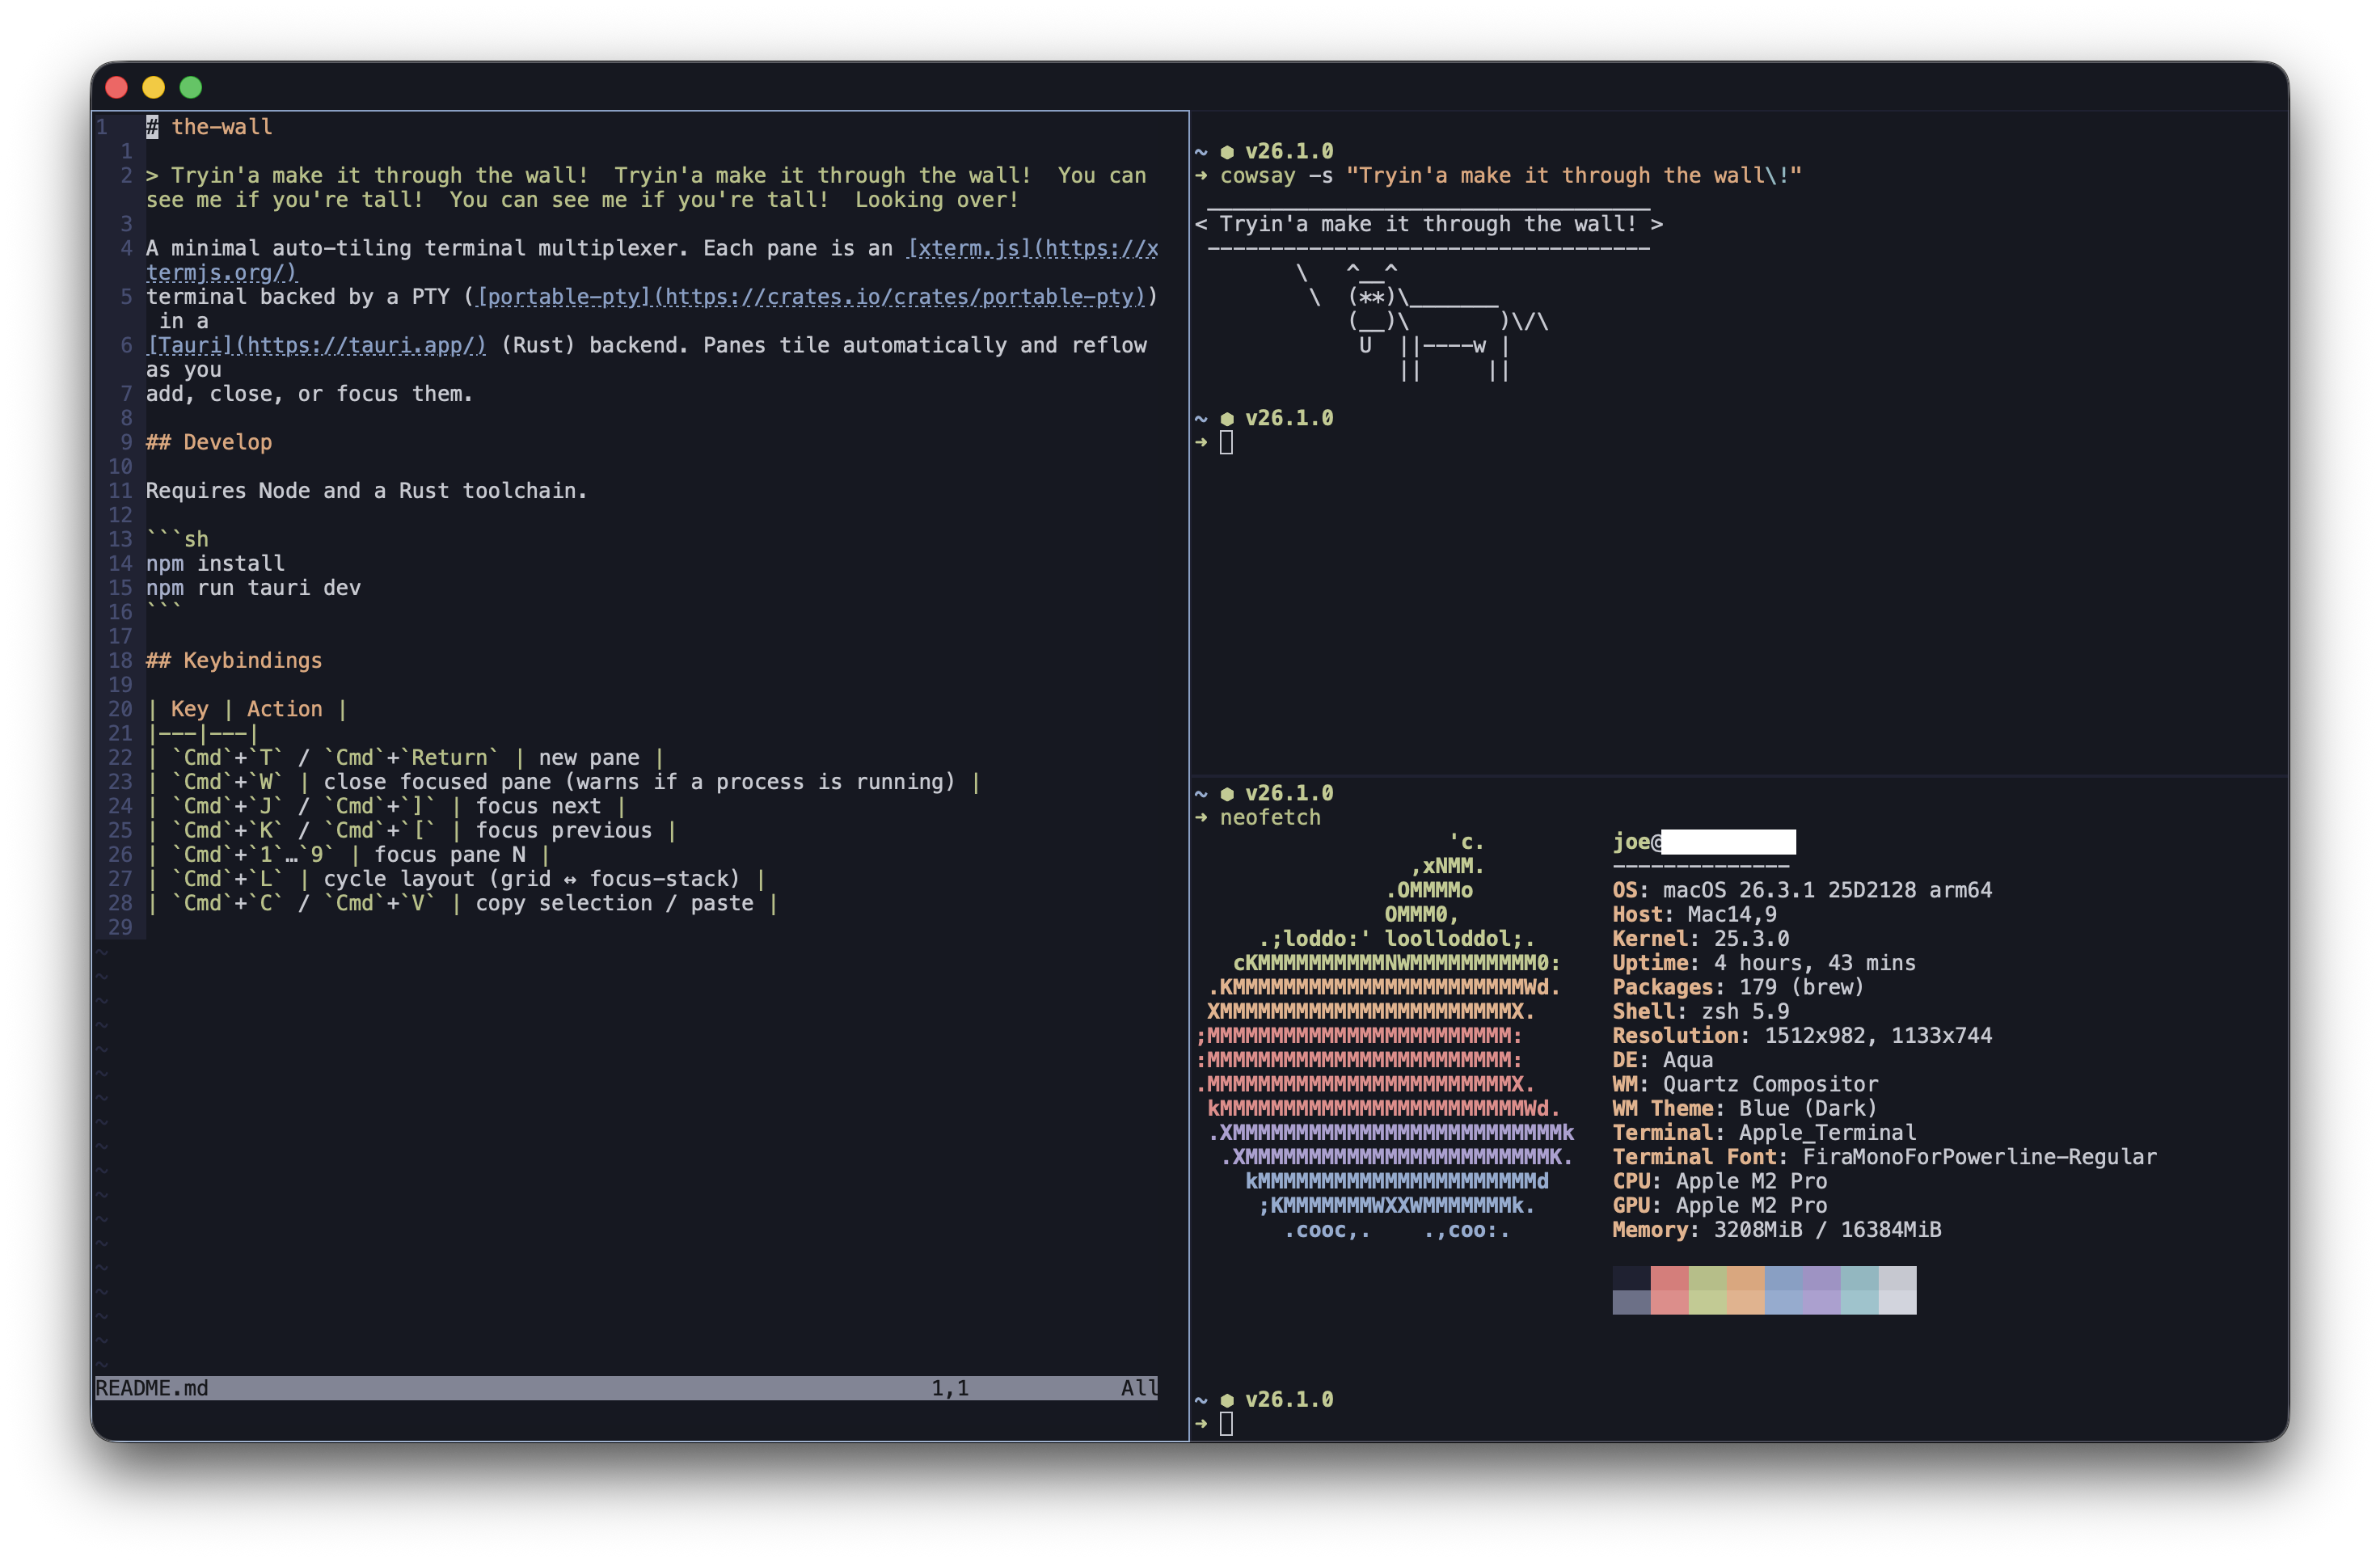
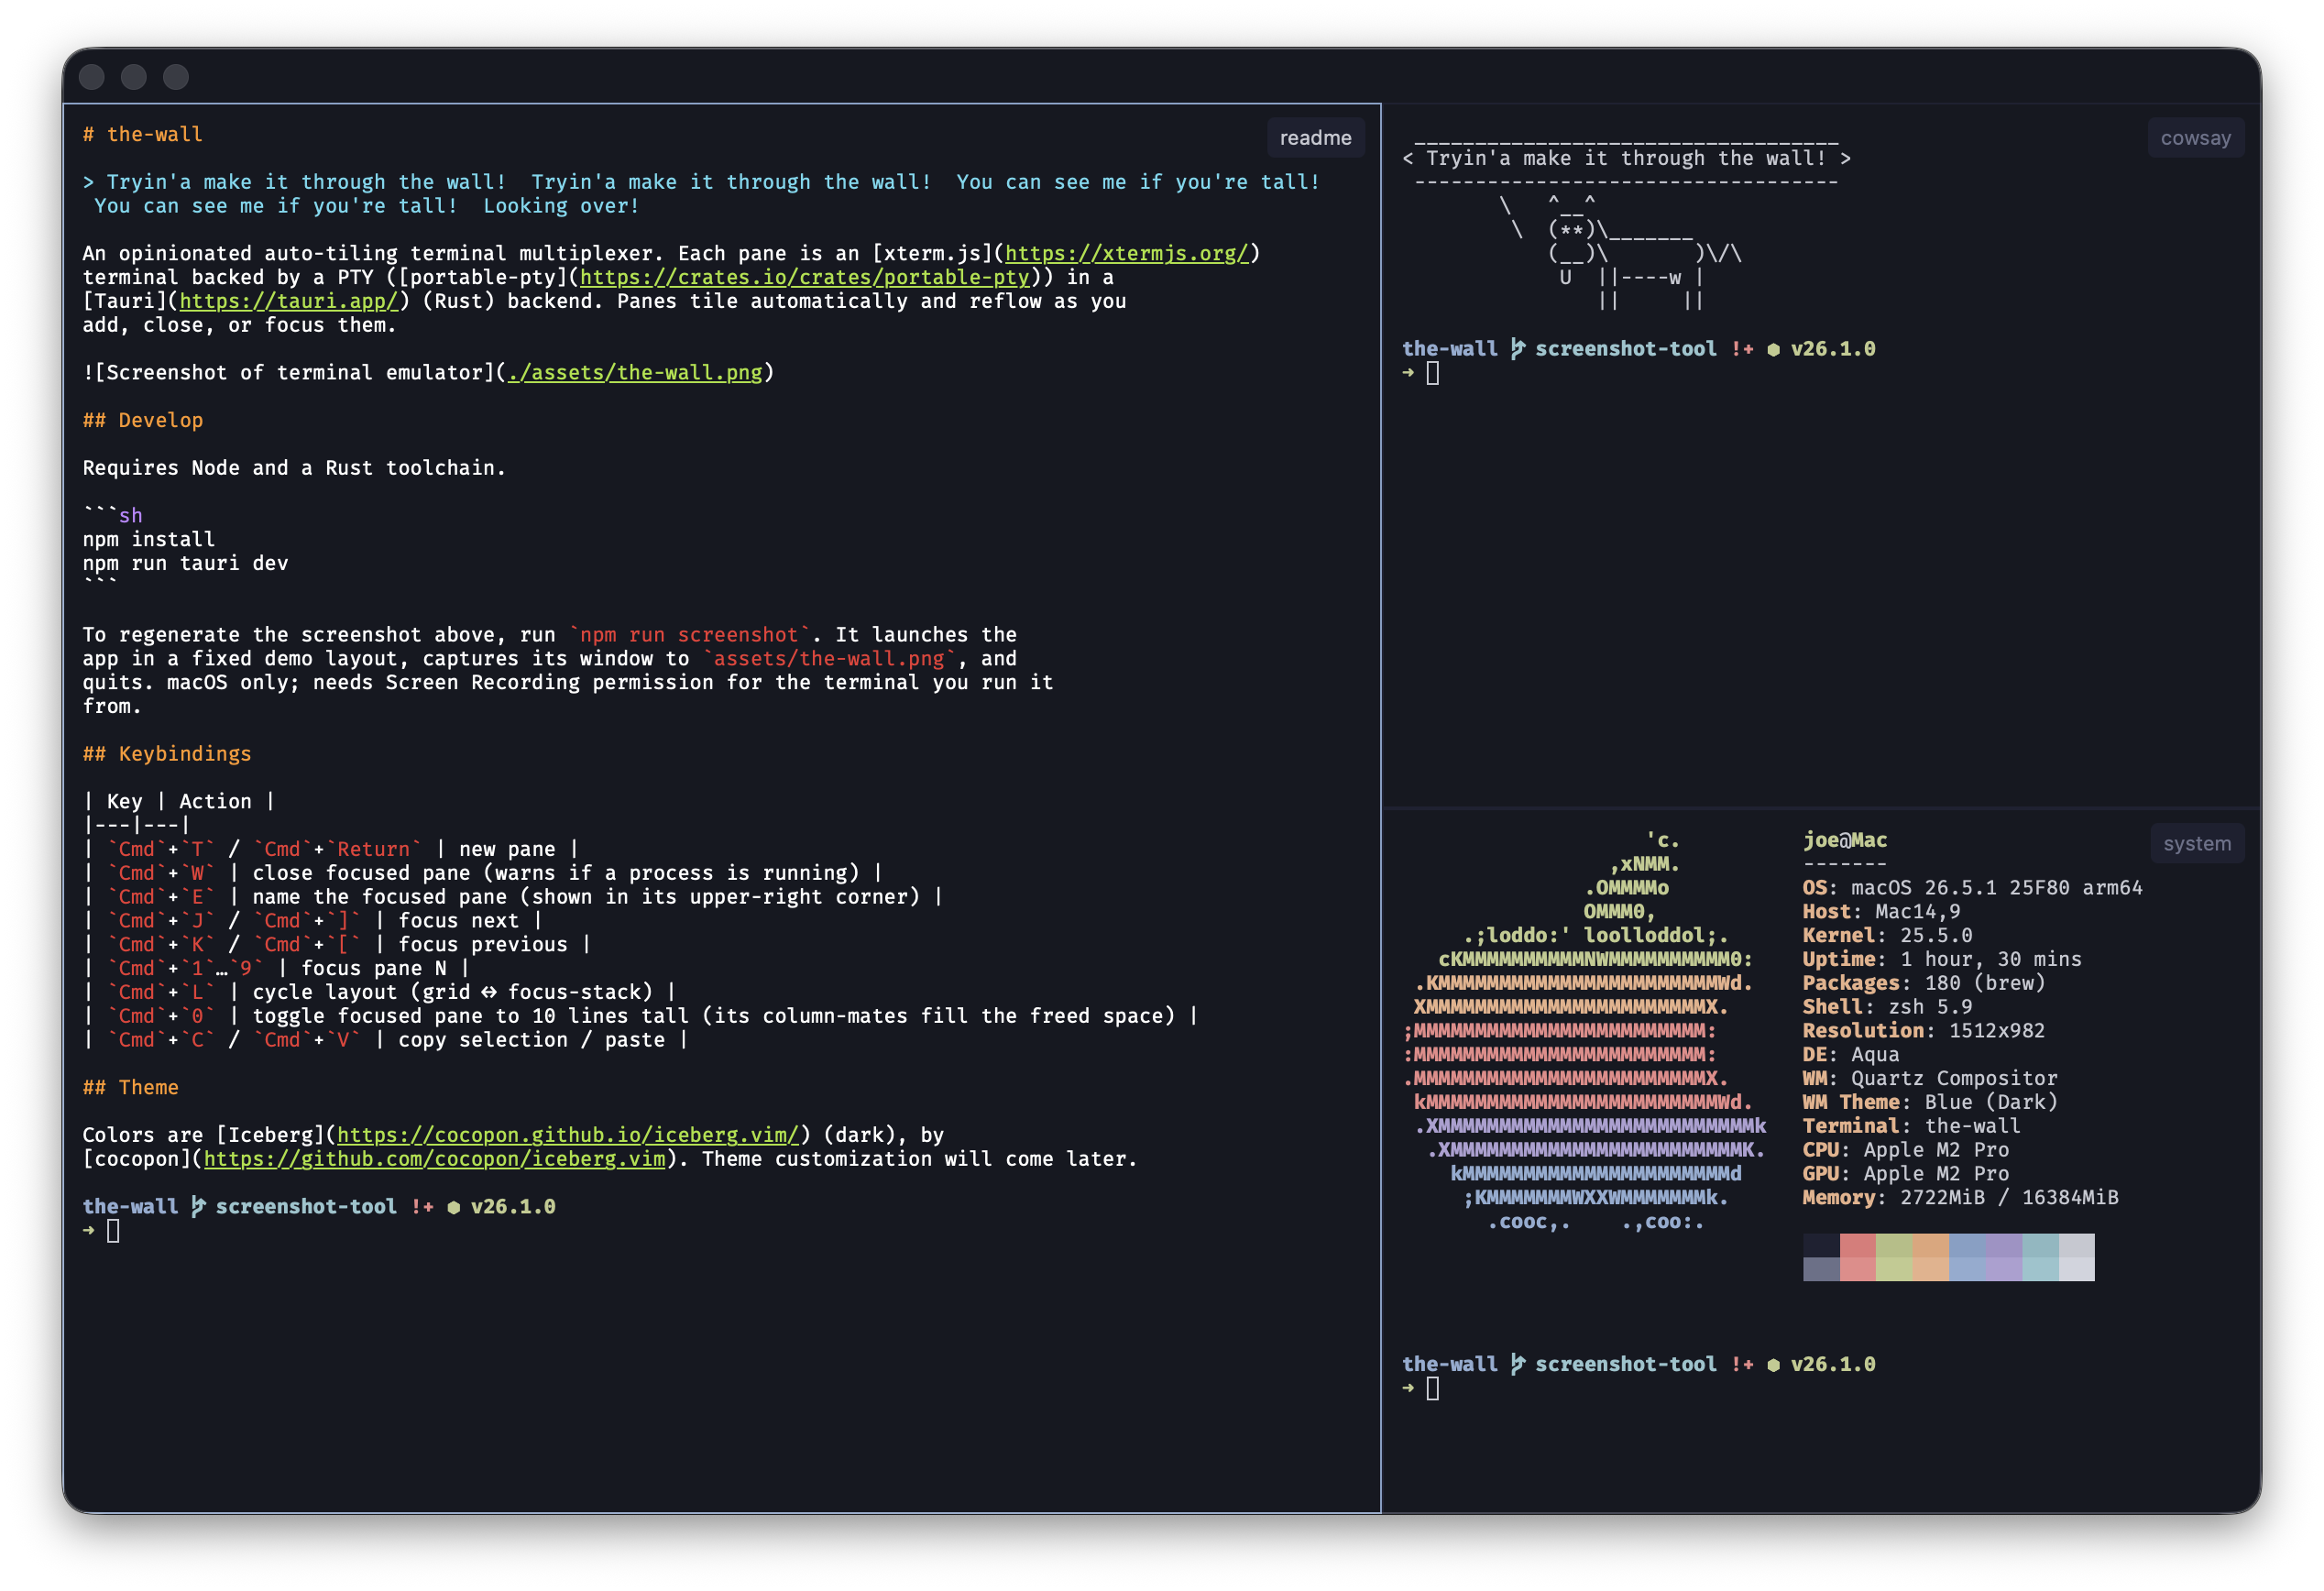
Add tooling to regenerate the README screenshot
`npm run screenshot` launches the app in an env-gated demo mode
(THE_WALL_DEMO=<repo>), captures its native window with screencapture,
and quits.

- demo_dir command exposes the env var to the frontend; runDemo lays out
  a master README pane plus a cowsay/neofetch stack, naming each pane to
  show the ⌘E feature.
- Waits for each shell's PTY output to fall quiet before typing, so input
  isn't echoed twice or mangled by an uninitialized line editor. The
  cowsay message is single-quoted so its "!" isn't history-expanded.
- scripts/screenshot.sh resolves the window's CGWindowID via a small
  Swift snippet (owner-name match, no Screen Recording permission needed
  for the lookup) and captures with the window shadow. Cleanup kills the
  reparented vite dev server by port so it can't leak onto 1420.
- Grant core:window:allow-set-size / allow-center so demo mode can size
  the window; the resize is wrapped so a failure can't blank the window.
- Regenerate assets/the-wall.png.

diff --git a/src/main.ts b/src/main.ts
@@ -2,6 +2,8 @@ import { Terminal, type ITerminalOptions } from "@xterm/xterm";
 import { FitAddon } from "@xterm/addon-fit";
 import { invoke } from "@tauri-apps/api/core";
 import { listen } from "@tauri-apps/api/event";
+import { getCurrentWindow } from "@tauri-apps/api/window";
+import { LogicalSize } from "@tauri-apps/api/dpi";
 import "@xterm/xterm/css/xterm.css";
 import { applyShrink, computeLayout, type LayoutName } from "./layout";
 
@@ -426,12 +428,96 @@ window.addEventListener("resize", () => {
   });
 });
 
+// --- Demo mode (README screenshot capture) -----------------------------------
+// Active only when launched with THE_WALL_DEMO set to the repo dir (see the
+// demo_dir command and scripts/screenshot.sh). Lays out a fixed set of panes
+// running representative commands so the README screenshot is reproducible.
+// Inert in normal use.
+const DEMO_SIZE = { width: 1200, height: 800 };
+
+/** Single-quote a string for safe interpolation into a shell command line. */
+function shquote(s: string): string {
+  return `'${s.replace(/'/g, `'\\''`)}'`;
+}
+
+// Each demo pane gets a name (shown via the ⌘E corner pill) and a command. The
+// first is the master (left) column; the rest stack on the right, top to bottom
+// — mirroring the composition of the README shot. The cowsay message is
+// single-quoted (shquote) so its "!" isn't taken as zsh history expansion.
+const DEMO_PANES = [
+  { name: "readme", cmd: "bat --paging=never --style=plain README.md" },
+  { name: "cowsay", cmd: `cowsay -s ${shquote("Tryin'a make it through the wall!")}` },
+  { name: "system", cmd: "neofetch" },
+];
+// Readiness gating for "typing" into the demo shells (see runDemo): wait for the
+// PTY output stream to fall quiet this long, capped by the overall timeout.
+const SHELL_READY_TIMEOUT_MS = 6000;
+const SHELL_QUIET_MS = 700;
+
+// PTY-output bookkeeping for the readiness check: which panes have produced any
+// output (shell started) and when output last arrived. Set by the pty-output
+// listener; read by runDemo.
+const seenOutput = new Set<number>();
+let lastOutputAt = 0;
+
+const delay = (ms: number): Promise<void> => new Promise((r) => setTimeout(r, ms));
+
+/** Build the fixed demo layout for the README screenshot: a master column plus
+    a right-hand stack. Each pane is named and, once its shell is ready, cd'd
+    into `dir` (so repo-relative commands resolve) and cleared, so only the
+    command's output shows — not the cd or the typed command line. */
+async function runDemo(dir: string): Promise<void> {
+  // Resize/center for a consistent frame, but never let a failure here (e.g. a
+  // missing window capability) abort the demo and leave a blank window.
+  try {
+    const win = getCurrentWindow();
+    await win.setSize(new LogicalSize(DEMO_SIZE.width, DEMO_SIZE.height));
+    await win.center();
+  } catch (e) {
+    console.error("demo: window resize failed", e);
+  }
+  layoutIndex = layouts.indexOf("master"); // first pane becomes the master column
+
+  for (const { name } of DEMO_PANES) {
+    await createPane();
+    const pane = paneList()[panes.size - 1]; // the pane just created
+    pane.name = name; // showcase pane naming (⌘E) in the corner pill
+    pane.nameEl.textContent = name;
+  }
+  const list = paneList();
+
+  // Typing before zsh's line editor initializes makes the command echo twice
+  // (raw tty echo, then the editor redrawing) and can mangle quoting. Wait until
+  // every shell has produced output AND the stream has gone quiet — proof the
+  // prompts are drawn and the editors are idle — capped so a chatty prompt
+  // (e.g. a clock) can't stall the demo indefinitely.
+  const deadline = Date.now() + SHELL_READY_TIMEOUT_MS;
+  while (Date.now() < deadline) {
+    const allStarted = list.every((p) => seenOutput.has(p.id));
+    if (allStarted && Date.now() - lastOutputAt >= SHELL_QUIET_MS) break;
+    await delay(50);
+  }
+
+  list.forEach((pane, i) => {
+    void invoke("write_pty", {
+      id: pane.id,
+      data: `cd ${shquote(dir)} && clear && ${DEMO_PANES[i].cmd}\n`,
+    });
+  });
+
+  setFocus(list[0].id); // focus the first pane so it's the master column
+}
+
 (async () => {
   await listen<{ id: number; bytes: number[] }>("pty-output", ({ payload }) => {
+    seenOutput.add(payload.id); // shell has started (demo readiness signal)
+    lastOutputAt = Date.now(); // for the demo's quiet-stream readiness check
     panes.get(payload.id)?.term.write(new Uint8Array(payload.bytes));
   });
   await listen<number>("pty-exit", ({ payload: id }) => {
     if (panes.has(id)) void closePane(id);
   });
-  await createPane();
+  const demoDir = await invoke<string | null>("demo_dir").catch(() => null);
+  if (demoDir) await runDemo(demoDir);
+  else await createPane();
 })();

diff --git a/src-tauri/src/lib.rs b/src-tauri/src/lib.rs
@@ -166,6 +166,15 @@ fn pane_busy(state: State<AppState>, id: u32) -> Result<bool, String> {
     }
 }
 
+/// When the app is launched for screenshot capture, `THE_WALL_DEMO` holds the
+/// directory the demo panes should run in (the repo root, so commands like
+/// `bat README.md` resolve). Returns `None` for a normal launch. See
+/// `scripts/screenshot.sh` and `runDemo` in the frontend.
+#[tauri::command]
+fn demo_dir() -> Option<String> {
+    std::env::var("THE_WALL_DEMO").ok().filter(|s| !s.is_empty())
+}
+
 #[cfg_attr(mobile, tauri::mobile_entry_point)]
 pub fn run() {
     tauri::Builder::default()
@@ -197,7 +206,7 @@ pub fn run() {
         })
         .manage(AppState::default())
         .invoke_handler(tauri::generate_handler![
-            spawn_pty, write_pty, resize_pty, close_pty, pane_busy
+            spawn_pty, write_pty, resize_pty, close_pty, pane_busy, demo_dir
         ])
         .run(tauri::generate_context!())
         .expect("error while running tauri application");

diff --git a/README.md b/README.md
@@ -18,6 +18,11 @@ npm install
 npm run tauri dev
 ```
 
+To regenerate the screenshot above, run `npm run screenshot`. It launches the
+app in a fixed demo layout, captures its window to `assets/the-wall.png`, and
+quits. macOS only; needs Screen Recording permission for the terminal you run it
+from.
+
 ## Keybindings
 
 | Key | Action |